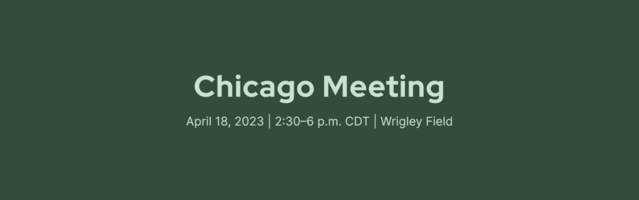
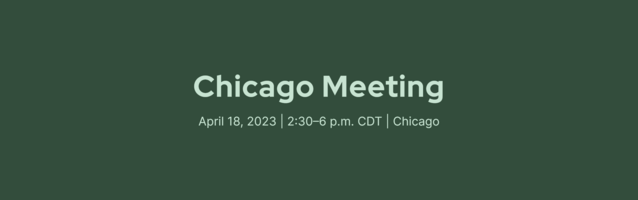
Add video playlist information

diff --git a/CONTRIBUTING.md b/CONTRIBUTING.md
@@ -182,7 +182,7 @@ title: Chicago Meeting
 description: Come join us in Chicago at Wrigley Field.
 date: '2023-04-18'
 time: '2:30–6 p.m. CDT'
-location: Wrigley Field
+location: Chicago
 ---
 ```
 
@@ -369,7 +369,7 @@ The fields are:
 - **schedule**: section label (section is optional).
 - **local_time**: start time of session.
 - **session_name**: — session title.
-- **track**: — track name (optional). If no sessions have a track, sessions display without tab interface. Sessions in the same track display in that tab. With most sessions having tracks, an event without one displays on all tracks. This is useful for breaks.
+- **track**: — track name (optional). If no sessions have a track, sessions display without tab interface. Sessions in the same track display in that tab. If tracks are defined, an event without one displays on all tracks. This is useful for breaks, reception, lunch, etc.
 - **speakers** — section label for session speakers (section is optional).
 - **id** — ID of a speaker from `src/content/speakers/speakers.yml`.
 
@@ -403,43 +403,167 @@ The fields are:
 
 Note: the other fields displayed in this section (`date`, `time`, `venue`, `venue_URL`, and `location`) already defined above.
 
+#### Translations
+
+If the gathering is being held in another language, the headings can be translated.
+
+Translation example:
+
+```
+translate_overview: Descrição do evento
+translate_invite: Convidar um amigo
+translate_where: Onde
+translate_when: Quando
+translate_price: Custo
+translate_sponsors: Patrocinadores
+translate_schedule: Agenda
+translate_speakers: Palestrantes
+translate_venue: Local do evento
+```
+
+The fields are:
+
+- **translate_overview** — translation of `Event Overview`.
+- **translate_invite** — translation of `Invite a Friend`.
+- **translate_where** — translation of `Where`.
+- **translate_when** — translation of `When`.
+- **translate_price** — translation of `Price`.
+- **translate_sponsors** — translation of `Sponsors`.
+- **translate_schedule** — translation of `Schedule`.
+- **translate_speakers** — translation of `Speakers`.
+- **translate_venue** — translation of `Venue`.
+
+#### Full example
+
+Example of a full `index.mdx` file:
+
+```
 ---
+title: 'LATAM OpenShift Commons Gathering 2021 PT'
+menu: 'show'
+description: ''
+language: 'pt-BR'
+date: '2021-10-06'
+time: '10 a.m–3 p.m.'
+location: 'Latinoamérica — Português'
 
-Gathering pages summarizing information about a particular event can be generated automatically, based on information provided in the `/data/gatherings.yml` file. Details of the gathering event, sponsors and speakers are separated into three groups, explained below with in-line (comments in brackets). If not stated otherwise, the attribute is required and cannot be omitted for the page generation. However, if there are too many details omitted, the page may look plain; make sure to always check that the page is built to your liking, with the data provided in `gatherings.yml`.
+head_text: >-
+  Onde usuários, parceiros, clientes, contribuidores e líderes de projetos se reúnem para colaborar e trabalhar juntos em todo o ecossistema OpenShift Cloud Native.
+registration_text: Confirme sua presença
+registration_URL: 'https://www.redhat.com/pt-br/forums/latam'
 
-As mentioned in the comment above, this section is also used to reference **YouTube playlists** from past Gatherings. See the `youtube_playlist_id` key description above. The videos are taken from the playlists with relevant details such as video order in the list, video thumbnail, video name and video description; if you need to edit any of these, it should be done in the YouTube playlist itself. When there are any changes made on youTube to a playlist that is already published, the changes will be in effect after the Commons site is re-deployed, as the videos are fetched on build time. Please contact repository maintainers, if you don't feel like waiting for the next site re-build and would like to have the changes deployed as soon as possible.
+lead_text: >-
+  Openshift Commons Gathering Latinoamérica 2021 — Português
+info_text: >-
+  O OpenShift Commons Gathering é o maior evento para usuários e contribuidores do OpenShift na região. Um espaço para criar conexões, onde experiências, histórias de sucesso e boas práticas são compartilhadas por especialistas e pares de todo o mundo. Este ano, aprenderemos sobre os recursos em contêineres mais recentes, à medida que a comunidade oferece um tour em primeira pessoa das melhores práticas para desenvolvedores de aplicativos nativos em nuvem e os projetos de software de código aberto que sustentam o ecossistema OpenShift.
+invite_link: 'https://docs.google.com/forms/d/e/1FAIpQLSfHDndcqfnU8y6X58e0GbfqHNxWPrX1qg2REH9tin-zqjJSkw/viewform'
+venue: 'Experiência virtual — Português'
+venue_URL: 'https://www.redhat.com/pt-br/forums/latam'
+price: Sem custo
+event_footer_text: >-
+  O OpenShift Commons Gathering será o cenário ideal para apresentar uma ampla gama de tecnologias que sustentam o ecossistema OpenShift.
 
-If a whole landing page does not need to be built for an older gathering, a simple record, such as the following one, would result in publishing videos only from the given YouTube playlist on [the Gatherings Videos page](https://commons.openshift.org/videos.html):
+schedule_leadin: >-
+  Todos os horários são mostrados no fuso horário de Brasília
+videos_text: >-
+  Veja edições anteriores de OpenShift Commons
+
+schedule:
+  - local_time: '9:50'
+    session_name: 'Bem-vindo ao OpenShift Commons: Colaboração em ação'
+    speakers:
+      - id: 'edson_yanaga'
+      - id: 'diane'
+  - local_time: '10:00'
+    session_name: 'Customer Keynote: Desacoplando o negócio digital com Openshift'
+    speakers:
+      - id: 'fred_ferreira'
+      - id: 'rodrigo_canhissare'
+  - local_time: '10:30'
+    session_name: 'O que há de novo no Openshift 4.8'
+    speakers:
+      - id: 'karena_angell'
+      - id: 'rob_szumski'
+  - local_time: '11:05'
+    session_name: 'OpenShift e Sulamérica: uma jornada de sucesso'
+    speakers:
+      - id: 'emerson_levi'
+  - local_time: '11:30'
+    session_name: 'Data Science como serviço gerenciado em OpenShift'
+    speakers:
+      - id: 'audrey_reznik'
+  - local_time: '12:05'
+    session_name: 'Jornada Banco #Original de Microsserviços'
+    speakers:
+      - id: 'luiz_paulo_leite_machado'
+  - local_time: '12:25'
+    session_name: 'Hospital Israelita Albert Einstein: Desafios e conquistas - Aprimorando a produtividade e promovendo a inovação'
+    speakers:
+      - id: 'henrique_xavier_goulart'
+  - local_time: '12:45'
+    session_name: 'Claro Brasil: Mudança de mentalidade e cultura devops Como o OpenShift nos ajudou a mudar nossa cultura'
+    speakers:
+      - id: 'rodrigo_sandrini'
+      - id: 'vitor_martins_dos_anjos'
+  - local_time: '13:15'
+    session_name: 'Engenharia de confiabilidade do local, serviços gerenciados e o caminho para o futuro'
+    speakers:
+      - id: 'divineops'
+  - local_time: '13:30'
+    session_name: 'Jogos clássicos. Demo ao vivo.'
+    speakers:
+      - id: 'tomas_gubeli'
+      - id: 'paulo_seguel'
+      - id: 'vinicius_ferraz'
+      - id: 'glauco_stephan'
+  - local_time: '14:00'
+    session_name: 'Projeto de atualização tecnológica das Aplicações na Usiminas'
+    speakers:
+      - id: 'fernando_simonetti'
+
+venue_address: 'Latinoamérica'
+
+translate_overview: Descrição do evento
+translate_schedule: Agenda
+translate_speakers: Palestrantes
+translate_venue: Local do evento
+translate_where: Onde
+translate_when: Quando
+translate_price: Custo
+translate_invite: Convidar um amigo
+translate_sponsors: Patrocinadores
+---
+```
+
+### Videos
+
+To display the videos from a YouTube playlist once a gathering is over, add `youtube_playlist_id` to the gathering's `index.mdx` file.
+
+Example showing the minimum required for a past gathering:
 
 ```
-gatherings:
-  - name: "Austin 2017"
-    date: "2017-12-05"
-    youtube_playlist_id: "PLaR6Rq6Z4Iqe9xnafdhWdSgD-3qsWTm6K"
+---
+title: 'Austin 2017'
+date: '2017-12-05'
+youtube_playlist_id: 'PLaR6Rq6Z4Iqe9xnafdhWdSgD-3qsWTm6K'
+---
 ```
 
-**Schedule tracks and Workshops**
-Specifying a `track` for any session indicates that a multi-track schedule is expected. The tracks will be rendered as individual
-tabs of the schedule. If there are tracks defined for some sessions, but some of the sessions do not have the track specified, it
-is assumed that such a session belongs into all tracks (that can be used for even reception, registration, coffee breaks, etc.). The
-order of individual track tabs is based on order of occurence when the track appears in the schedule for the first time, in the `gatherings.yml`,
-irrelevant of the actual time of that session (sessions themselves are ordered chronologically in the rendered schedule though).
-The workshops defined under the `workshops` section render as individual tabs right after tracks in the schedule area. The order of
-workshop tabs is based on the order of appearance of those workshops in the `gatherings.yml` file.
+A link to the videos displays on the gatherings page under _Past Gatherings Videos_.
 
-**Speakers**  
-Speaker details that are referenced by `id` in the schedule are kept in this form:
+Before the video pages can be generated, the information for each video must be pulled from YouTube. A YouTube API key is required to access the video information on YouTube.
+
+If you do not have a valid API key, contact a site mantainer to run the `gen-vid-list` script which will pull the information and create the `src/content/videos/videos.yml` file.
+
+(Obtaining a YouTube API key)[https://developers.google.com/youtube/v3/getting-started].
+
+To update `videos.yml`, from the root of the project, run:
 
 ```
-speakers:
-  - id: "speaker id" (unique)
-    name: "John Doe"
-    role: "Everyday Ninja"
-    company: "Doe Industries" (optional)
-    URL: "https://johndoe.org/about-me/" (optional)
-    intro: "John is" (optional; displays a pop up on hover with this text)
-    photo: "speakers/diane.jpg" (optional)
+YT_API_KEY=1234567890 ./gen-vid-list
 ```
+
+replacing `1234567890` with your YouTube API key. After it runs, commit the `src/content/videos/videos.yml` file to the repository.
 
 ## Submitting a pull request
 

diff --git a/README.md b/README.md
@@ -7,9 +7,3 @@ This repo contains the sources for the [OpenShift Commons](https://commons.opens
 ## Contributing
 
 See information on [contributing](CONTRIBUTING.md).
-
-## Environment variables
-
-**`YT_API_KEY`** - A valid YouTube API key is **required** by `fetch_gathering_videos.rb` to create the `/data/gathering_videos.yml` list (referencing YouTube playlists in `/data/gatherings.yml` is mentioned in `CONTRIBUTING.md`). Note that Middleman build would fail, if the `/data/gathering_videos.yml` is not present. If deploying locally, make sure to run the `fetch_gathering_videos.rb` script before Middleman build. When deploying on OpenShift, this is already included in the `.s2i/bin/assemble` script (the `YT_API_KEY` environment variable must be defined in the build configuration, available during the "assemble" phase).
-
-A valid YouTube API key can be obtained per https://developers.google.com/youtube/v3/getting-started
